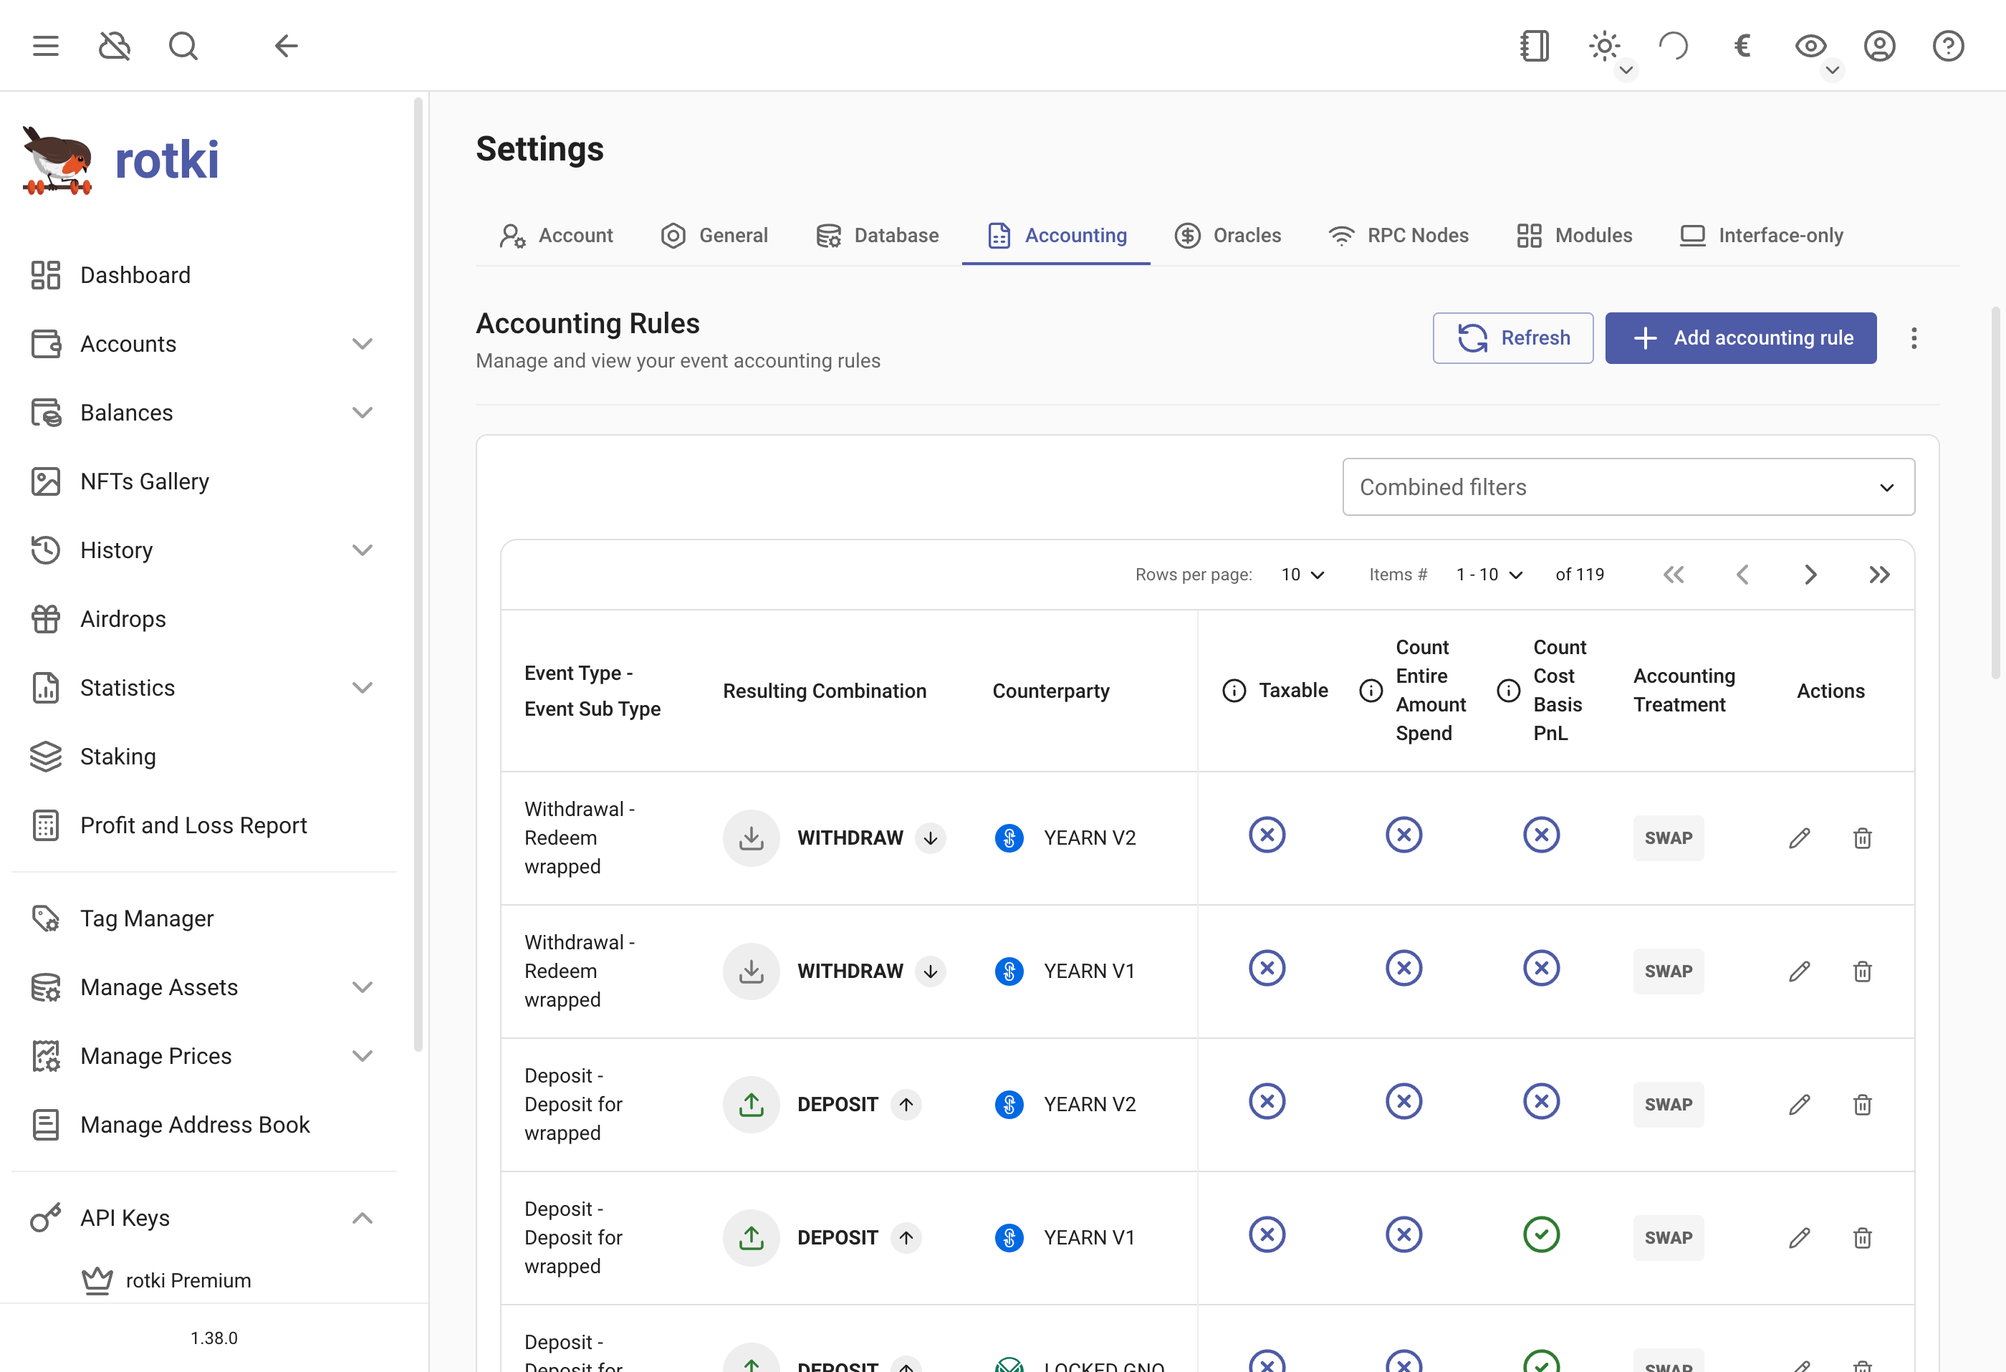
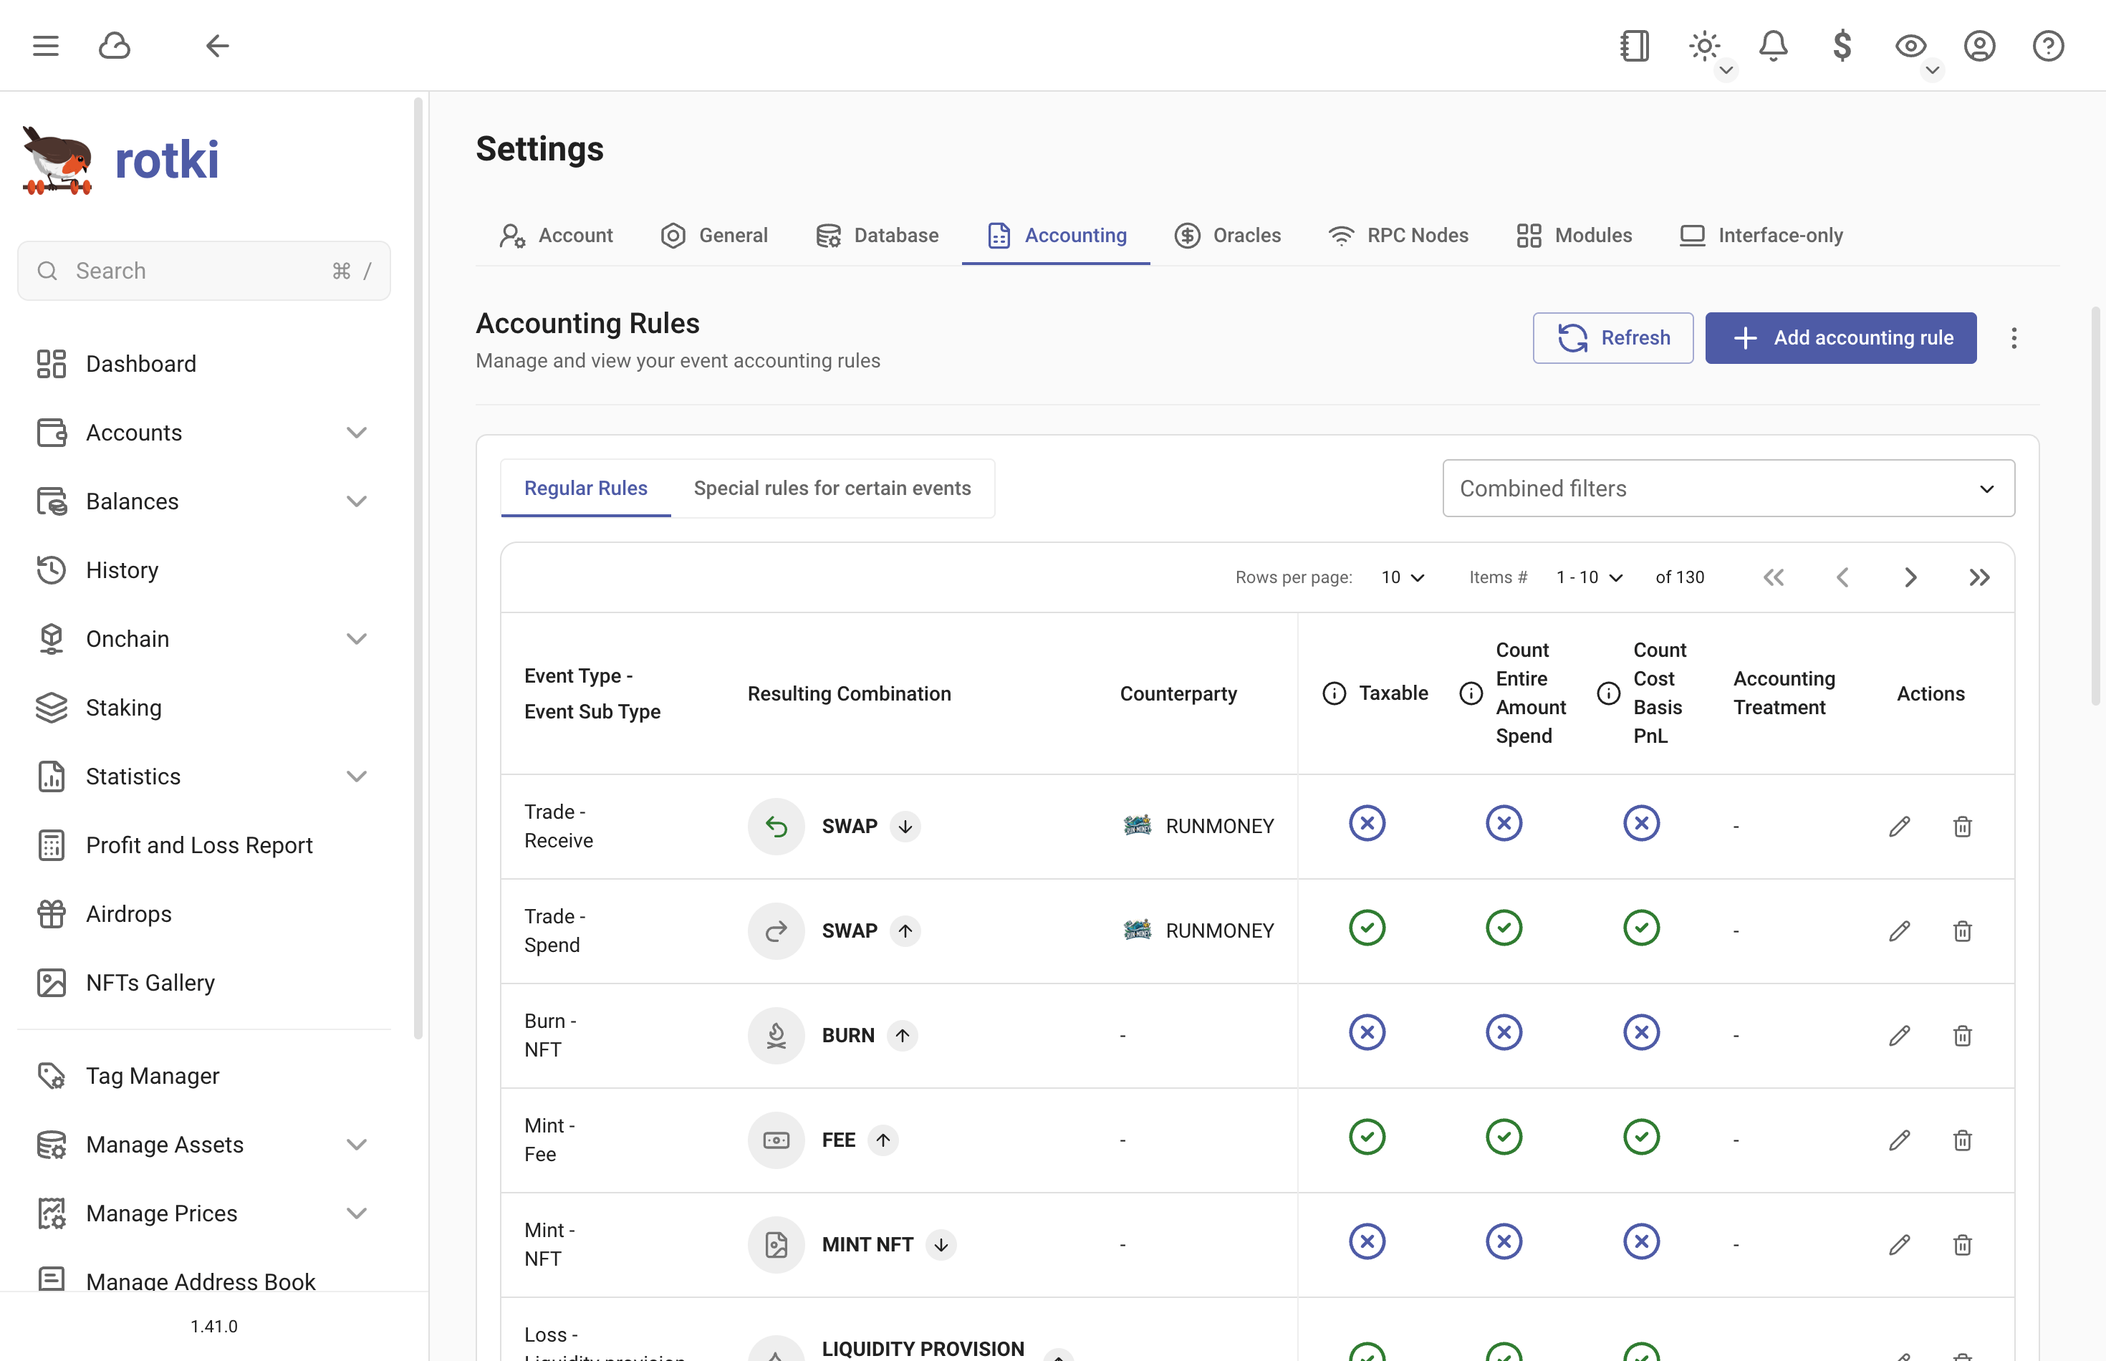
docs: changes for 1.41.0

diff --git a/usage-guides/historical-events.md b/usage-guides/historical-events.md
@@ -8,6 +8,7 @@ Currently, these events are detected automatically by rotki:
 
 - Transactions from registered **EVM accounts** (except Avalanche).
 - Transactions from registered **Bitcoin** and **Bitcoin Cash** accounts.
+- Transactions from registered **Solana** accounts.
 - Events from registered exchanges.
 - ETH withdrawal events
 - ETH block events
@@ -19,9 +20,10 @@ Additionally, you can add your custom events.
 
 ## Events filtering
 
-History events can be filtered if you have a premium subscription activated. You can filter by:
+History events can be filtered with these advanced filters.
+The filters will persist, meaning if you go to another page or log out, the last filter will still be applied when you open the history events page.
 
-- Account (a tracked blockchain address)
+- Accounts (tracked blockchain / exchange accounts)
 - Time range
 - Asset involved in the transaction
 - Protocol that interacted in the transaction
@@ -30,23 +32,11 @@ History events can be filtered if you have a premium subscription activated. You
 - Event subtype (fee, spend, etc.)
 - Entry type (EVM event, ETH block event, etc.)
 - Counterparty address
-- Tx hash of a particular transaction that you want to check
+- Tx hash/signature of a particular transaction that you want to check
 - Index of an eth2 validator that you want to see events for
 - Show only customized events
 - Show entries with ignored assets
 - Should match exact filter (whether to only show the events that match the filter, excluding the other events in the same group)
-
-![History events query status](/images/events_filter.png)
-
-## Export history events as CSV
-
-Events can be exported as CSV, click on `Export CSV` button and accept prompt to download exported events.
-
-![Button to download events as csv](/images/events_csv_export.png)
-
-## Ignore events in accounting
-
-By default, all events will be processed in accounting, but you can ignore unwanted events, so they won't be processed. You can click on the three dots to display the options for the group of events, and click `Ignore events in accounting`/`Unignore events in accounting`.
 
 ## Refreshing Events
 
@@ -62,7 +52,7 @@ To see the status, you can click the button here:
 
 ![See query status](/images/see_query_status.png)
 
-Basically, what happens when you refresh the transactions/events are:
+Basically, what happens when you refresh the transactions/events is:
 
 1. It will query the transactions from the "last queried time" to the current time.
 2. For EVM events, after rotki queries these new transactions, it will try to decode them.
@@ -88,13 +78,13 @@ Refreshes events from specific protocols such as Monerium and Gnosis Pay, pullin
 
 ![Refreshing protocols events](/images/refreshing_protocols_events.png)
 
-## Redecoding EVM transactions
+## Redecoding blockchain transactions
 
-It is possible that you need to redecode events for an EVM transaction. To do that you have two options. The first of them is to click on the three dots to display the options for an EVM transaction and click on `Redecode events`. This will start the process to read the transaction's events again and try to understand what happened in them. If there are any custom events in the transaction, there will be one more confirmation, asking whether to also reset these custom events or not.
+It is possible that you need to redecode events for blockchain transactions (EVM and Solana). To do that you have two options. The first of them is to click on the three-dots `⋮` menu to display the options for an transaction and click on `Redecode events`. This will start the process to read the transaction's events again and try to understand what happened in them. If there are any custom events in the transaction, there will be one more confirmation, asking whether to also reset these custom events or not.
 
-![Redecode events for an EVM transaction](/images/redecode_events.png)
+![Redecode events for an transaction](/images/redecode_events.png)
 
-The second option is to redecode all EVM transactions that have been queried. To do so you need to click on `Redecode EVM Events` at the top of the page.
+The second option is to redecode all transactions that have been queried. To do so you need to click on `Redecode All Transactions` at the top of the page.
 
 ![Menu to redecode all queried EVM transactions events](/images/redecode_all_events.png)
 
@@ -108,7 +98,15 @@ You will see the status of the EVM events redecoding.
 
 EVM Transactions and the events can be deleted, but to restore them you will have to either purge all transactions or add by the transaction hash.
 
-## Delete event
+![History events query status](/images/events_filter.png)
+
+## Export history events as CSV
+
+Events can be exported as CSV, click on `Export CSV` button and accept prompt to download exported events.
+
+![Button to download events as csv](/images/events_csv_export.png)
+
+## Delete transactions & events
 
 ![Menu to delete EVM transactions events](/images/delete_transaction_events.png)
 
@@ -118,16 +116,17 @@ EVM Transactions and the events can be deleted, but to restore them you will hav
 
 If you want to add a transaction that was either deleted or for some reason missed, or was not found by rotki, you can add it by transaction hash by clicking the menu as seen in the picture.
 
-## Re-Pulling transactions missed in the past
+## Re-Pulling events missed in the past
 
-It is possible that due to network issues, RPC errors, or other problems, some transactions may have been missed during the initial sync. This can happen when:
+It is possible that due to network issues, RPC errors, or other problems, some events may have been missed during the initial sync. This can happen when:
 
 - An RPC node provided broken information.
 - Etherscan or other indexers had wrong data.
 - Sources used were not fully synced.
 - Other kind of bugs.
 
-You can re-pull EVM transactions for a specific account or all accounts within a selected time range by clicking on the 3 dots menu on the top right and selecting "Repull transactions".
+You can find the menu by clicking the three-dots `⋮` menu in the top right and selecting `Re-pulling Events`.
+You can pull blockchain transaction events and events that come from exchanges.
 
 ![Repull transactions](/images/repull_transactions.png)
 
@@ -135,19 +134,47 @@ If any missed transactions are found, you'll see a notification indicating how m
 
 ![Repulled transactions result](/images/repull_transactions2.png)
 
-After the transactions are pulled, they need to be decoded. You can either:
+After the transactions are pulled, blockchain transactions need to be decoded, while events from exchanges will appear directly. For blockchain transactions, you can either:
 
 - Wait a few moments for automatic decoding
 - Click the refresh button to trigger decoding manually
 - Check the transaction decoding status to monitor progress
 
-Once decoded, the transactions will appear in the history view with all their associated events.
+Once decoded, the blockchain transactions will appear in the history view with all their associated events.
 
 ## Missing accounting rule
 
 If you see this warning button, it means the event won't be processed correctly in accounting. It could be due to improper decoding or a missing accounting rule for that event. You can fix it by editing the event or adding the missing accounting rule. You can also edit the events if they have special meaning to you, such as OTC trades or transfers between accounts.
 
 ![The button indicates that the event won't be processed correctly.](/images/event_not_processed.png)
+
+## Edit accounting rule
+
+![Edit accounting rule](/images/edit_accounting_rule.png)
+
+You can customize how events are processed in accounting by editing their accounting rules. When editing an accounting rule, you have two options:
+
+1. **Apply to all matching events** - Updates all existing events that share the same combination of event type, subtype, and counterparty. This creates a general rule that affects all similar events.
+
+2. **Apply to this specific event only** - Creates a special accounting rule that targets only the selected event, without affecting other similar events.
+
+## Ignore events in accounting
+
+By default, all events will be processed in accounting, but you can ignore unwanted events, so they won't be processed. You can click on the three-dots `⋮` menu to display the options for the group of events, and click `Ignore events in accounting`/`Unignore events in accounting`.
+
+## Select multiple events
+
+You can go to selection mode and select multiple events by clicking this menu in the top left:
+
+![Selection mode](/images/selection_mode.png)
+
+You can perform two actions:
+
+1. Delete the selected events
+2. Set regular accounting rules for specific events
+   - Note: Multiple selected events must have the same entry type/subtype combination to apply custom accounting rules.
+
+![Select multiple events](/images/select_multiple_events.png)
 
 ## Add / edit events
 

diff --git a/usage-guides/api-keys.md b/usage-guides/api-keys.md
@@ -149,6 +149,8 @@ After following these steps, your balances in the dashboard will be updated incl
 
 ### Monerium
 
+You can integrate Monerium with rotki to import your transaction data. This feature is only available for premium users.
+
 As long as you provide Monerium credentials, all Monerium transactions on Mainnet, Polygon, and Gnosis chain will be decorated with bank data (or chain bridging data), which you can also see in the Monerium app.
 
 1. For bank transfers from/to your address, you will be able to see the destination/source IBAN along with the memo of the transfer.
@@ -156,35 +158,52 @@ As long as you provide Monerium credentials, all Monerium transactions on Mainne
 
 ![Monerium decorated transactions](/images/monerium_transactions.png)
 
-> **Note**: Monerium API can only use basic authentication at the moment. We are in contact with their team and they will add API keys eventually. But for now, they only have basic authentication, which means your username and password are stored in rotki (encrypted). Take necessary security precautions and don't use unless you understand the potential risks.
+#### Adding Monerium OAuth Token
+
+![Monerium get access token](/images/monerium_get_access_token.png)
+![Monerium OAuth](/images/monerium_oauth.png)
+
+To connect your Monerium account:
+
+1. **Get Access Token:**
+   - In rotki, navigate to `API Keys → External Services → Monerium`.
+   - Click the **Get access token** button.
+
+2. **Complete OAuth Flow:**
+   - You will be redirected to rotki.com to connect via Monerium OAuth.
+   - Follow the authentication flow on the Monerium OAuth page.
+
+3. **Return to rotki:**
+   - **Standard mode**: You will be automatically redirected back to the app after completing the OAuth flow.
+   - **Docker mode**: You will need to manually copy the access token and refresh token from the OAuth page and input them into rotki.
+
+4. **Redecode Transactions:**
+   - After successfully adding your Monerium credentials, you need to redecode the Monerium transactions in the history events section to see the updated bank data.
+
+> **Note**: The Monerium credentials only provide read-only access to your Monerium data. The OAuth authentication flow described above is mandated by Monerium's API requirements, not a design choice by rotki. rotki simply integrates with their authentication system as required.
 
 ### Gnosis Pay
 
+![Gnosis Pay SIWE](/images/gnosis_pay_siwe.png)
+
 You can integrate Gnosis Pay with rotki to import your transaction data. This feature is only available for premium users.
 
-#### Adding Gnosis Pay Session Token
+#### Adding Gnosis Pay Access Token
 
-To add your Gnosis Pay session token:
+To connect your Gnosis Pay account:
 
-1. **Login to Gnosis Pay:**
-   - Go to [Gnosis Pay](https://old.gnosispay.com/dashboard) and log in to your account.
+1. **Connect Wallet:**
+   - In rotki, navigate to `API Keys → External Services → Gnosis Pay`.
+   - Click the **Sign in with Ethereum** button.
+   - Connect the wallet that controls the Safe wallet of your Gnosis Pay account.
 
-2. **Retrieve the Session Token:**
-   - Open your browser's developer tools (right-click on the page and select `Inspect` or press `F12` / `Ctrl+Shift+I`/`Cmd+Option+I`).
-   - Go to the **Application** tab in the developer tools.
-   - In the **Storage** section on the left sidebar, click on **Cookies** and select `https://old.gnosispay.com` (marked as **1** in the image).
-   - Look for the cookie named `__Secure-authjs.session-token` in the list (marked as **2** in the image).
-   - Copy the value of the cookie from the **Cookie Value** section at the bottom (marked as **3** in the image).
+2. **Sign Message:**
+   - Sign the message to authenticate and get the access token.
 
-   ![Retrieve Gnosis Pay Session Token](/images/gnosispay_add_key.png)
+3. **Redecode Transactions:**
+   - After successfully connecting your Gnosis Pay account, you need to redecode the Gnosis Pay transactions in the history events section to enrich the transaction details.
 
-3. **Add Session Token to rotki:**
-   - In rotki, navigate to `API Keys → External Services`.
-   - Scroll to the **Gnosis Pay** section.
-   - Paste the session token into the **Session Token** field.
-   - Click **Save**.
-
-> **Note**: The session token only provides read-only access to your Gnosis Pay data
+> **Note**: The access token only provides read-only access to your Gnosis Pay data. The "Sign in with Ethereum" authentication process described above is mandated by Gnosis Pay's API requirements, not a design choice by rotki. rotki simply integrates with their authentication system as required.
 
 ### The Graph
 

diff --git a/usage-guides/customization.md b/usage-guides/customization.md
@@ -152,7 +152,7 @@ There are two options to reset the assets database:
 
 ![Customizing the accounting rules](/images/sc_accounting_custom_rule.png)
 
-By choosing the "Accounting" settings button, you can customize application settings related to accounting calculations.
+In this accounting menu, you can customize application settings related to accounting calculations. These settings will affect the PnL report calculations.
 
 > [!IMPORTANT]
 > Before changing any settings:
@@ -169,9 +169,22 @@ By choosing the "Accounting" settings button, you can customize application sett
 
 You can change these settings to match your country's tax requirements.
 
-### Custom Accounting Rules
+### Add/Edit Accounting Rules
 
-Customize accounting rules based on `Event type`, `Event sub type`, and `Counterparty`.
+![Add new accounting rules](/images/sc_accounting_add_rule.png)
+
+You can add or edit accounting rules based on `Event type`, `Event subtype`, and `Counterparty`.
+
+### Special Accounting Rules For Specific Events
+
+![Special Accounting Rules](/images/sc_accounting_rules_special.png)
+
+You can set custom accounting rules for individual events or groups of events directly from the History Events page. This allows you to override the default accounting behavior for specific events.
+
+There are two ways to apply special rules:
+
+- Use the [Edit accounting rule](/usage-guides/historical-events.html#edit-accounting-rule) menu for individual events
+- Use [Select multiple events](/usage-guides/historical-events.html#select-multiple-events) to apply rules to multiple events at once
 
 ### Trade Settings
 

diff --git a/faq.md b/faq.md
@@ -78,9 +78,9 @@ To view transactions with ignored assets, enable `Show entries with ignored asse
 
 For more information on un-ignoring and optionally whitelisting assets, see [My asset is not showing in rotki](/faq.html#my-asset-is-not-showing-in-rotki) above.
 
-### Transactions for an EVM chain are missing
+### Events are missing
 
-If you notice that some transactions are missing for an EVM chain, you can re-pull transactions for a specific time range. See [Re-Pulling transactions missed in the past](/usage-guides/historical-events.md#re-pulling-transactions-missed-in-the-past) for detailed instructions.
+If you notice that some events are missing for an EVM chain or from exchanges, you can re-pull events for a specific time range. See [Re-pulling events missed in the past](/usage-guides/historical-events.md#re-pulling-events-missed-in-the-past) for detailed instructions.
 
 ### My balances are not showing after importing my history/creating history events
 

diff --git a/usage-guides/accounts-and-balances.md b/usage-guides/accounts-and-balances.md
@@ -28,6 +28,8 @@ For now, the following chains are supported in rotki (and the list will be growi
 |                      |                     |                                 |
 | **Substrate Chains** | Polkadot            | dot                             |
 |                      | Kusama              | ksm                             |
+|                      |                     |                                 |
+| **Solana Chains**    | Solana              | solana                          |
 
 ### Steps to Add an Account:
 

diff --git a/usage-guides/address-book.md b/usage-guides/address-book.md
@@ -22,7 +22,7 @@ rotki provides an address book for blockchains. This replaces addresses with nam
 
 ## Import multiple address books (CSV)
 
-You can add multiple address book entries at once with CSV import. You can find the menu in the three-dots menu here.
+You can add multiple address book entries at once with CSV import. You can find the menu in the three dots `⋮` menu here.
 
 ![Import Address Book Entries](/images/import_addressbook_entries.png)
 
